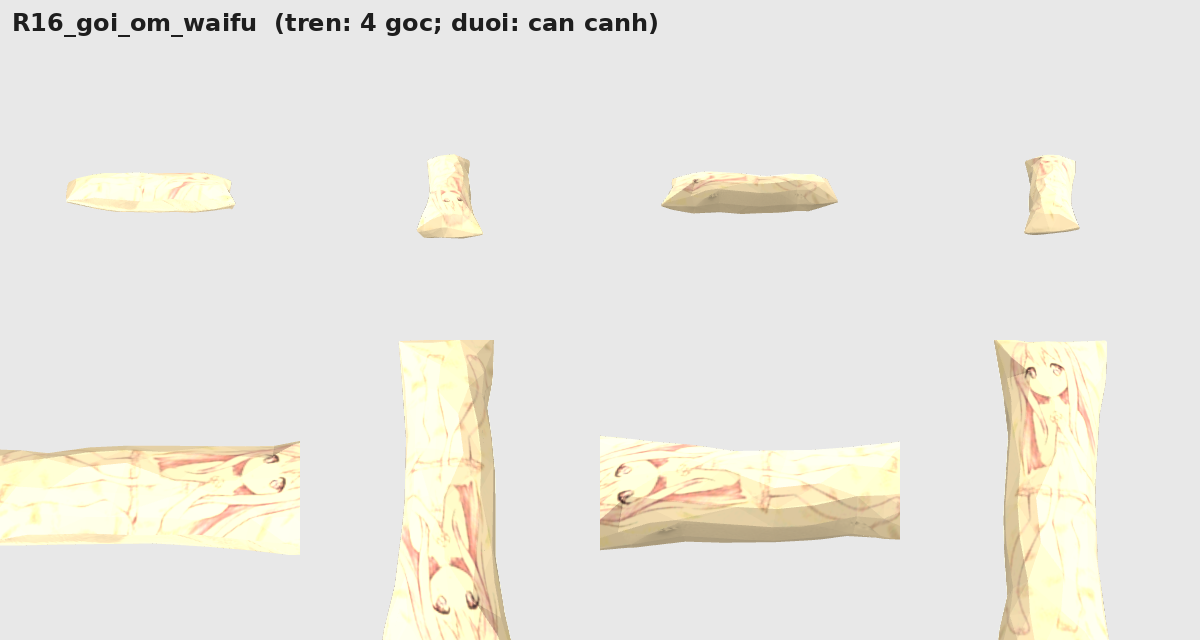
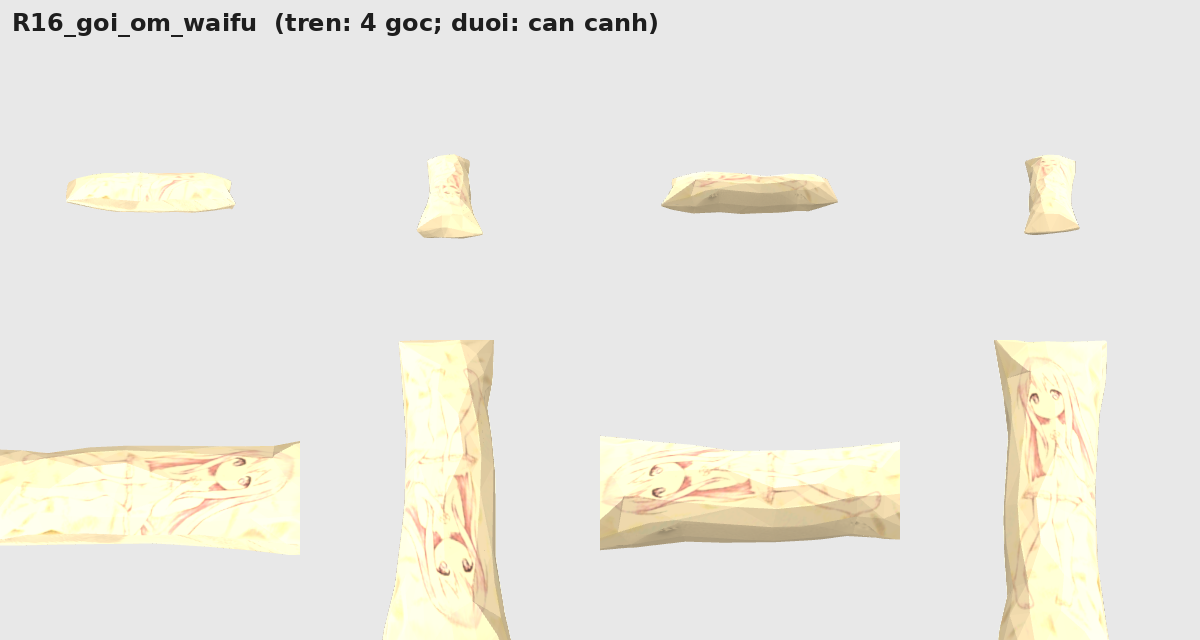
art: R16 print centered, H40 grey patches to dark wood, V42 bevels and worn textures
Claude-Session: https://claude.ai/code/session_01QKQCdZFi57vgqBRvGqxNEY

diff --git a/Tools/Meshy/blender/dung_mon.py b/Tools/Meshy/blender/dung_mon.py
@@ -68,12 +68,12 @@ def add_obj(bm, name, material):
     return ob
 
 
-def box(size, loc=(0, 0, 0), bevel=0.0):
+def box(size, loc=(0, 0, 0), bevel=0.0, seg=1):
     bm = bmesh.new()
     bmesh.ops.create_cube(bm, size=1.0)
     bmesh.ops.scale(bm, vec=Vector(size), verts=bm.verts)
     if bevel:
-        bmesh.ops.bevel(bm, geom=bm.edges[:] + bm.verts[:], offset=bevel, segments=1, affect="EDGES")
+        bmesh.ops.bevel(bm, geom=bm.edges[:] + bm.verts[:], offset=bevel, segments=seg, affect="EDGES")
     bmesh.ops.translate(bm, vec=Vector(loc), verts=bm.verts)
     return bm
 
@@ -411,34 +411,35 @@ elif code == "V42":  # so ho khau 13 x 19 cm, day 7 mm, bia truoc mo he 14 do
     n = np.asarray(Image.effect_noise((W, H), 25).filter(ImageFilter.GaussianBlur(6))).astype(float)
     a *= (0.95 + 0.1 * (n / 255))[..., None]
     front = Image.fromarray(np.clip(a, 0, 255).astype(np.uint8))
-    plain = Image.new("RGB", (64, 64), tuple(int(c * 0.92) for c in cover))
+    nz = np.asarray(Image.effect_noise((128, 128), 40).filter(ImageFilter.GaussianBlur(2))).astype(float) / 255
+    plain = Image.fromarray(np.clip(np.array(cover) * 0.92 * (0.9 + 0.2 * nz)[..., None], 0, 255).astype(np.uint8))  # bia sau: van bia cu
     pg = Image.new("RGB", (64, 64), (212, 200, 172))  # canh giay: soc ngang
     dp = ImageDraw.Draw(pg)
-    for y in range(0, 64, 4):
-        dp.line([(0, y), (63, y)], fill=(180, 168, 140))
-    inner = Image.new("RGB", (W, H), (218, 208, 182))  # trang dau: ke dong
+    for y in range(0, 64, 2):  # mep tung trang, dam nhat khong deu
+        dp.line([(0, y), (63, y)], fill=tuple(int(c * rng.uniform(0.8, 0.95)) for c in (212, 200, 172)))
+    inner = Image.new("RGB", (W, H), (200, 186, 156))  # trang dau: ke dong
     di = ImageDraw.Draw(inner)
     di.text((W / 2, 80), "TRANG 1", font=ImageFont.truetype(FN, 28), fill=(90, 80, 70), anchor="mm")
     for y in range(150, H - 60, 46):
-        di.line([(50, y), (W - 50, y)], fill=(170, 160, 140), width=2)
+        di.line([(50, y), (W - 50, y)], fill=(140, 128, 108), width=3)
     inner = inner.filter(ImageFilter.GaussianBlur(0.8))
     m_front, m_plain = mat("bia", im=front, rough=0.8), mat("bia_tron", im=plain, rough=0.8)
     m_page, m_inner = mat("giay", im=pg, rough=0.9), mat("trang", im=inner, rough=0.9)
     # bia sau
-    bm = box((BW, BH, CT), (BW / 2, 0, CT / 2), 0.0004); uv_box(bm, 4)
+    bm = box((BW, BH, CT), (BW / 2, 0, CT / 2), 0.00035, 3); uv_box(bm, 4)
     parts = [add_obj(bm, "bia_sau", m_plain)]
     # khoi giay (hoi nho hon bia)
-    bm = box((BW - 0.004, BH - 0.006, PT), (BW / 2 - 0.001, 0, CT + PT / 2)); uv_box(bm, 30)
+    bm = box((BW - 0.004, BH - 0.006, PT), (BW / 2 - 0.001, 0, CT + PT / 2), 0.0008, 2); uv_box(bm, 30)
     parts.append(add_obj(bm, "giay", m_page))
     bm = box((BW - 0.004, BH - 0.006, 0.0002), (BW / 2 - 0.001, 0, CT + PT + 0.0001))
     uv_top(bm, (0.001, -BH / 2 + 0.003), (BW - 0.003, BH / 2 - 0.003))
     parts.append(add_obj(bm, "trang1", m_inner))
     # gay so
-    bm = box((CT * 1.2, BH, PT + 2 * CT), (0, 0, (PT + 2 * CT) / 2), 0.0004); uv_box(bm, 4)
+    bm = box((CT * 1.2, BH, PT + 2 * CT), (0, 0, (PT + 2 * CT) / 2), 0.0005, 3); uv_box(bm, 4)
     parts.append(add_obj(bm, "gay", m_plain))
     # bia truoc: mat ngoai co chu, xoay quanh gay (truc Y tai x=0, z=PT+CT) 14 do
     z0 = CT + PT
-    bm = box((BW, BH, CT), (BW / 2, 0, z0 + CT / 2), 0.0004)
+    bm = box((BW, BH, CT), (BW / 2, 0, z0 + CT / 2), 0.00035, 3)
     uvl = bm.loops.layers.uv.verify()
     for f in bm.faces:
         for lp in f.loops:

diff --git a/Tools/Meshy/retex/fix_thuong.py b/Tools/Meshy/retex/fix_thuong.py
@@ -63,13 +63,15 @@ elif code=="H40": # chan go: go nau bong (giu van), vong dong, day da (cac phan 
     c=m.triangles_center;lo=m.bounds[0];sc=560/max(m.extents)
     X,Y=(c[:,0]-lo[0])*sc+30,(c[:,2]-lo[2])*sc+30   # anh nhin tu tren (x, z)
     loops=(X>525)|((X>285)&(X<360)&(Y>182))|((X>400)&(X<525)&(Y>200))   # vong day tach khoi than (chon tay)
-    leather=(sa<0.2)|loops
-    wood=~brass&~leather;print("brass",brass.sum(),"leather",leather.sum(),"wood",wood.sum())
+    leather=loops   # chi vong day
+    grey=(sa<0.2)&~loops&~brass   # mang xam tren than va mieng coi: go sam
+    wood=~brass&~leather&~grey;print("brass",brass.sum(),"leather",leather.sum(),"wood",wood.sum())
     wmu=cols[wood].mean()
     def woodf(px):return np.clip(np.array((112,60,30))*(px.mean(1,keepdims=True)/wmu)**1.3,0,255)
     def brassf(px):return np.clip(np.array((196,140,52))*(0.8+0.35*px.mean(1,keepdims=True)/255),0,255)
     def leatherf(px):return np.clip(np.array((58,38,28))*(0.75+0.5*px.mean(1,keepdims=True)/255),0,255)
     tex=paint(tex,[P[i] for i in np.where(wood)[0]],woodf)
+    tex=paint(tex,[P[i] for i in np.where(grey)[0]],lambda px:np.clip(np.array((82,46,24))*(0.8+0.4*px.mean(1,keepdims=True)/255),0,255))
     tex=paint(tex,[P[i] for i in np.where(leather)[0]],leatherf)
     tex=paint(tex,[P[i] for i in np.where(brass)[0]],brassf)
     m.visual.material.roughnessFactor=0.35

diff --git a/Tools/Meshy/retex/in_goi_om.py b/Tools/Meshy/retex/in_goi_om.py
@@ -55,6 +55,8 @@ lo, hi = m.bounds
 # dau (dinh anh) o x lon; be ngang cua hinh in theo z
 vi = m.faces[up].ravel()
 t = (z[vi] - lo[2]) / (hi[2] - lo[2]); l = (hi[0] - x[vi]) / (hi[0] - lo[0])
+# thu hinh in vao giua mat phang tren (dau goi cuon xuong): ngoai vung nay keo mep (mau vai, da mo o vien)
+t = np.clip((t - 0.1) / 0.8, 0, 1); l = np.clip((l - 0.12) / 0.8, 0, 1)
 uv[vi, 0] = (OW + t * TW) / NW
 uv[vi, 1] = 1 - (l * TH) / NH
 mat = m.visual.material; mat.baseColorTexture = new

diff --git a/Docs/Art/BanGiao3D.md b/Docs/Art/BanGiao3D.md
@@ -369,7 +369,7 @@ Còn lại: xem danh sách làm lại; 7 Thường và 5 Hiếm mới chưa làm
 | R13 | Que kem đã liếm sạch | Tuổi thơ Việt Nam | Có; dựng lại bằng Blender (que gỗ trơn 11,4 cm, 2 vết cắn, vệt kem sót), 84 tam giác |
 | R14 | Sổ liên lạc | Tuổi thơ Việt Nam | Có, bìa xanh nhàu; mép giấy bạc đã tô ngà; chưa có chữ ký |
 | R15 | Vỏ bim bim | Tuổi thơ Việt Nam | Có, nhàu, xé miệng, không nhãn hãng |
-| R16 | Gối ôm waifu bạc màu | Wibu | Có; Blender xoay thẳng, làm dày 1 m × 34 × 20 cm; mặt trên in cô gái anime bạc màu (nhân vật tự nghĩ, `retex/in_goi_om.py`); mặt bên đã xóa vệt sọc đỏ xanh |
+| R16 | Gối ôm waifu bạc màu | Wibu | Có; Blender xoay thẳng, làm dày 1 m × 34 × 20 cm; mặt trên in cô gái anime bạc màu (nhân vật tự nghĩ, `retex/in_goi_om.py`), hình thu vào giữa mặt phẳng để mặt không rơi xuống đầu gối; mặt bên đã xóa vệt sọc đỏ xanh |
 | R17 | Poster rách | Wibu | Có, hai ống cuộn |
 | R26 | Mảnh vệ tinh cháy | Không gian | Có, tấm pin cong cháy mép, lòi dây (gộp 3 mảnh); dây tô đỏ và đen |
 | R28 | Đĩa game lậu (hư) | Game | Có, đĩa nứt trong hộp vỡ, dẹt |
@@ -395,7 +395,7 @@ Cứu không tốn credit:
 
 | Mã | Món | Rương | Tình trạng |
 |---|---|---|---|
-| V42 | Sổ hộ khẩu giấy | Việt Nam | Có (Blender, `dung_mon.py V42`), 13 × 19 cm, bìa hồng cam có quốc hiệu, chữ "SỔ HỘ KHẨU", hình tròn trang trí (không dùng quốc huy), mở hé |
+| V42 | Sổ hộ khẩu giấy | Việt Nam | Có (Blender, `dung_mon.py V42`), 13 × 19 cm, bìa hồng cam có quốc hiệu, chữ "SỔ HỘ KHẨU", hình tròn trang trí (không dùng quốc huy), mở hé; mép bìa bo mềm, vân bìa cũ, mép trang không đều; 348 tam giác |
 | V43 | Tay cầm game kiểu cũ | Game | Có (Meshy), dây cuộn gọn; thân và dây cùng màu xám, đã xóa vết lem (`fix_thuong.py V43b`) |
 | V44 | Lightstick | Âm nhạc | Có (Blender), đầu tròn hồng phát sáng nhẹ, cán xám có gân |
 | V45 | Tượng nhân sư bằng đá | Ai Cập cổ đại | Có (làm lại 2026-11-24: Meshy, đủ thân, có đế, giảm lưới còn 6 nghìn tam giác) |
@@ -405,7 +405,7 @@ Cứu không tốn credit:
 | H37 | Mảnh vệ tinh thật | Không gian | Có (Blender), thân giấy vàng, 2 tấm pin, chảo, ăng-ten; rộng 82 cm |
 | H38 | Băng đội trưởng có chữ ký | Thể thao | Có (Blender), vòng vải vàng, chữ C, chữ ký bút dạ |
 | H39 | Bàn cầu cơ nguyên vẹn | Phim kinh dị | Có (Blender), chữ khắc cháy, con trỏ hình tim |
-| H40 | Chân gỗ thuyền trưởng | Hải tặc | Có (Meshy, tách chiếc đũa xuyên qua); tô lại gỗ nâu bóng, vòng đồng, dây da nâu sẫm (`fix_thuong.py H40`) |
+| H40 | Chân gỗ thuyền trưởng | Hải tặc | Có (Meshy, tách chiếc đũa xuyên qua); tô lại gỗ nâu bóng, vòng đồng, dây da nâu sẫm; mảng xám trên thân và miệng cối thành gỗ sẫm (`fix_thuong.py H40`) |
 
 Món Blender có ít tam giác (150–220) và màu phẳng hơn món Meshy; nếu lệch phong cách khi đặt cạnh nhau trong Unity thì gom vào danh sách làm lại.
 
@@ -420,7 +420,8 @@ Chuyển sang phiên sửa (không tốn credit):
 - [x] R30 Vé bóng đá giả: làm lại thành một tấm vé phẳng có chữ và dấu "FAKE" (Blender).
 - [x] V42 Sổ hộ khẩu: giống sổ Việt Nam hơn, bìa có chữ "SỔ HỘ KHẨU" (dựng lại bằng Blender).
 - [x] V43 Tay cầm: tô dây cùng màu thân, xóa chỗ lem.
-- [x] V46 Đũa, H40 Chân gỗ: tô lại màu. Dây da H40 chọn tay theo vùng (vòng dây tách khỏi thân), một mảng sát cối chân cũng thành da.
+- [x] V46 Đũa, H40 Chân gỗ: tô lại màu. Dây da H40 chọn tay theo vùng (vòng dây tách khỏi thân); mảng xám trên thân tô gỗ sẫm.
+- [x] Sửa thêm sau khi xem: R16 thu hình in vào giữa (trước đó mắt nhân vật rơi xuống mặt dốc đầu gối); V42 bo mép, thêm vân bìa và mép trang. R30 giữ (1,6 nghìn tam giác, texture đủ chi tiết).
 - [x] V48 Ô giấy dầu: chủ dự án quyết định bỏ (mảnh thừa dính sát mặt dưới tán không tách sạch; khoen che thì to). Đã xóa file, bỏ khỏi spec và bảng; R50 Ô giấy rách giữ, không còn cặp. Script thử `retex/xoa_manh_o.py` giữ làm mẫu.
 
 ## Danh sách làm lại
